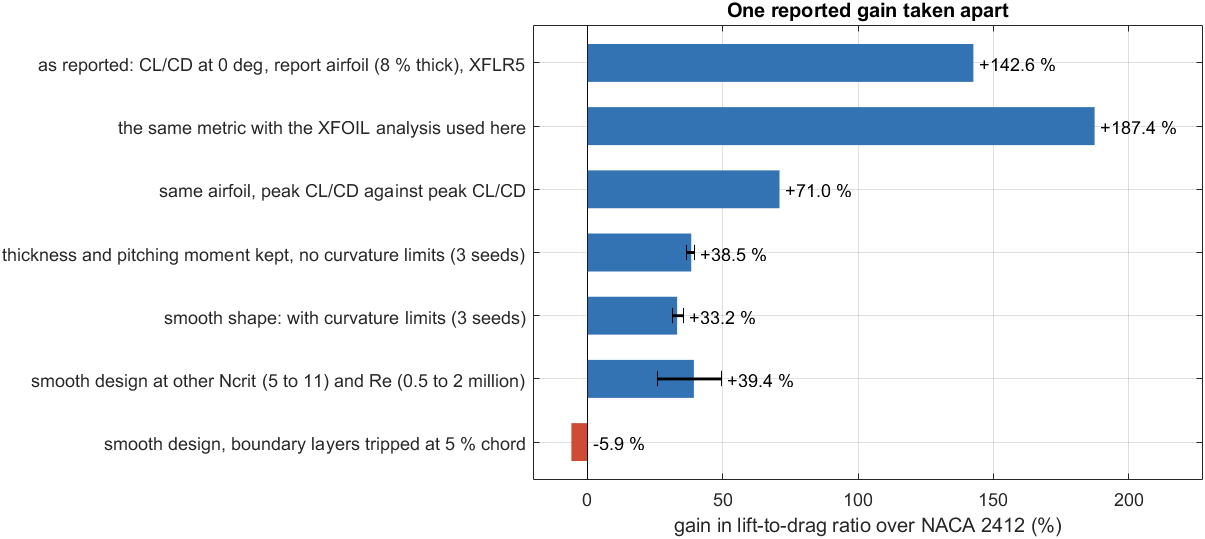
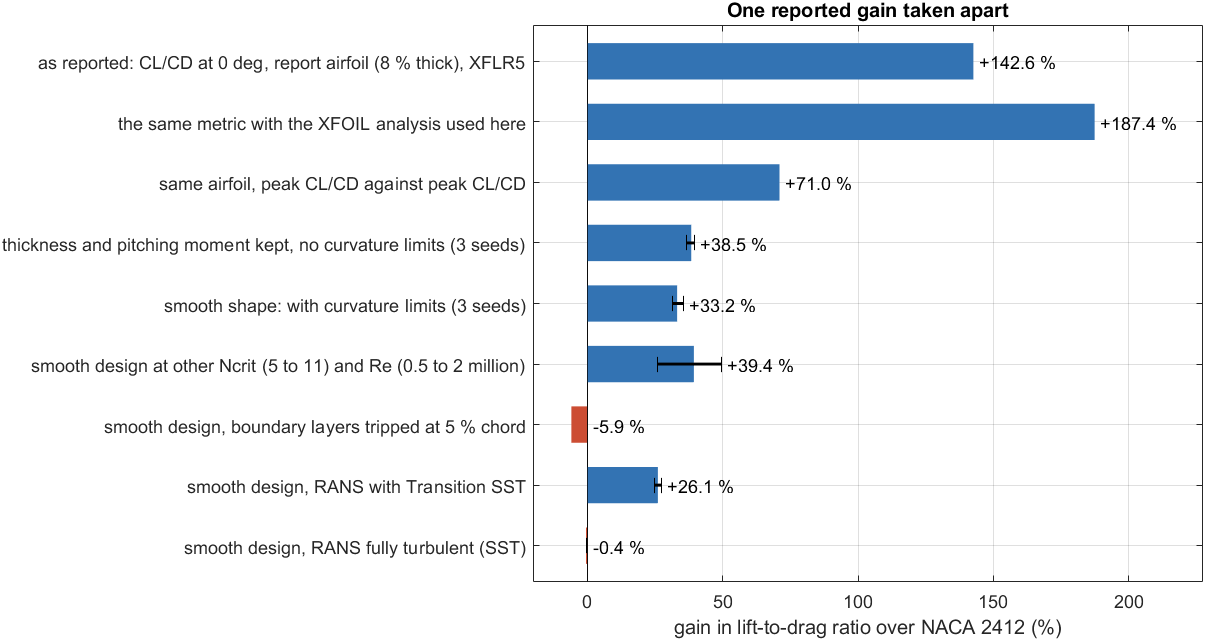
Gain decomposition: the two RANS steps (+26.1 % with Transition SST, -0.4 % fully turbulent)
650 numbers checked against their sources.

diff --git a/results/paper/README.md b/results/paper/README.md
@@ -135,6 +135,8 @@ of the project report to what is left under stricter conditions.
 | Smooth shape: with curvature limits (three seeds) | +33.2 % (31.6 to 35.5) |
 | The smooth design at other Ncrit (5 to 11) and Reynolds numbers (0.5 to 2 million) | +25.9 to +49.5 % |
 | The smooth design with boundary layers tripped at 5 % chord | −5.9 % |
+| The smooth design in RANS with a transition model (Transition SST) | +26.1 % (24.7 to 27.5) |
+| The smooth design in fully turbulent RANS (SST) | −0.4 % |
 
 - **A gain at a fixed angle is the largest number, and it depends on the analysis.** The original has a
   small CL/CD at 0°, so the ratio reacts strongly to details: XFLR5 in the report and XFOIL here give
@@ -143,9 +145,10 @@ of the project report to what is left under stricter conditions.
 - **With thickness and pitching moment kept, 33 to 38 % remain,** and the smooth shape costs about five
   points of that.
 - **The gain survives other values of Ncrit and Reynolds number, but not the loss of laminar flow.**
-
-The two last steps, RANS with and without a transition model, are added by the same script when the
-Fluent design study is complete ([results/cfd](../cfd/README.md)).
+- **RANS gives the same picture with other numbers.** With a transition model the smooth design keeps
+  a gain of 26.1 %, about three quarters of what XFOIL gives at the same angles; in fully turbulent flow
+  it has none. The range of the Transition SST value comes from the force cycles of the two runs
+  ([results/cfd](../cfd/README.md)).
 
 ## Morphing between the smooth cruise and loiter designs
 
